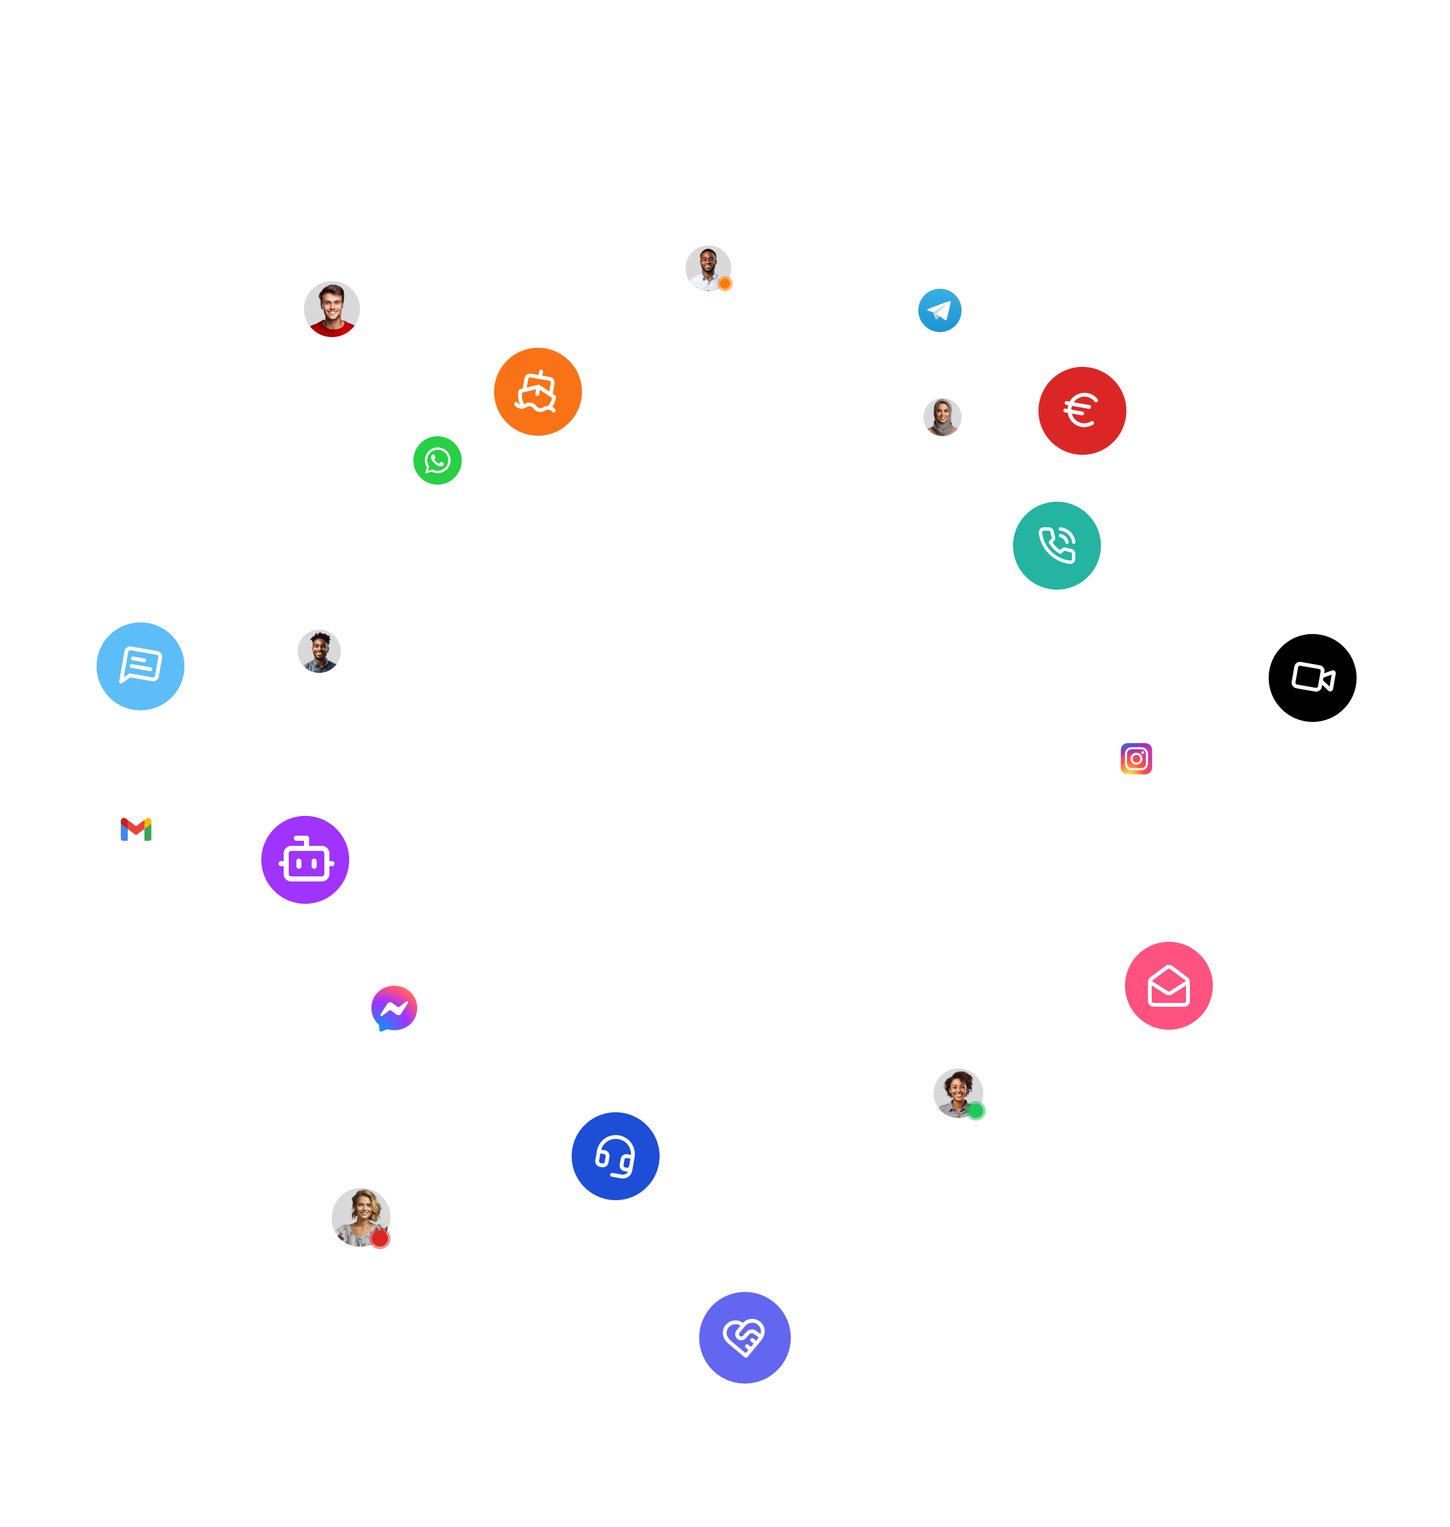
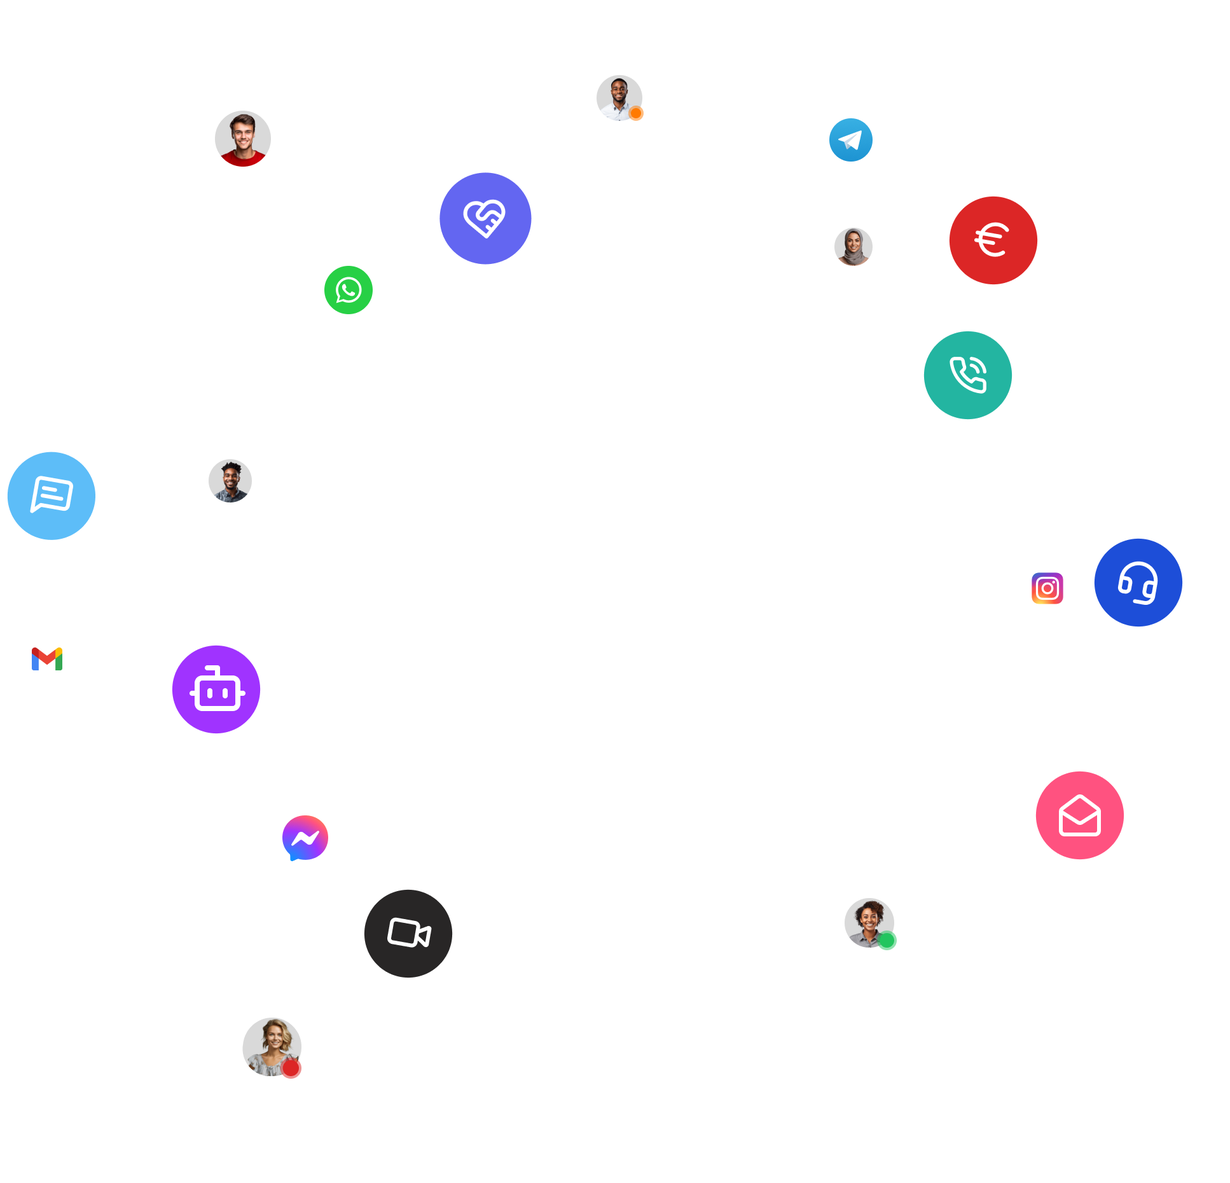
Update CRM

diff --git a/src/components/IconsFeatures.jsx b/src/components/IconsFeatures.jsx
@@ -4,14 +4,13 @@ import Link from 'next/link'
 import { Container } from './Container'
 
 const features = [
-
-    { name: 'Cruise Manager', description: 'Our comprehensive suite of tools includes a robust Real time Cruise Booking Engine, B2C and B2B platforms, Mid-Office and Back-Office solutions. Take advantage of our Web Service API and customizable White Label options to seamlessly integrate and brand our solutions as your own.', href: '/cruise', icon: ShipIcon, style: 'cruise' },
-    { name: 'CRM & Sales ', description: 'Optimize your travel agency\'s sales management with our integrated CRM solution. Benefit from robust customer management, effective lead generation, a live booking manager, and sales tracking features. Streamline your process with tools tailored for the travel industry.    ', href: '/crm', icon: UsersIcon, style: 'crm' },
-    { name: 'Socials media', description: 'Automate your customers\' communication with artificial intelligence-driven bots and a Live Chat system optimized  with smarter conversations on any channel. WhatsApp, Messenger, Instagram, Email, Telegram, ...  Centralize your communication channels by managing every interaction from a single platform.', href: '/socials', icon: Share2Icon, style: 'socials' },
+    // { name: 'Cruise Manager', description: 'Our comprehensive suite of tools includes a robust Real time Cruise Booking Engine, B2C and B2B platforms, Mid-Office and Back-Office solutions. Take advantage of our Web Service API and customizable White Label options to seamlessly integrate and brand our solutions as your own.', href: '/cruise', icon: ShipIcon, style: 'cruise' },
     { name: 'Unified', description: 'Our comprehensive solution integrates unified communication and collaboration tools, including IP telephony, advanced instant messaging with group management, video conferencing, task management, and a shared email inbox.  Designed to streamline your team\'s workflow and enhance productivity.', href: '/unified', icon: MessageSquareTextIcon, style: 'unified' },
+    { name: 'Sales & HelpDesk ', description: 'Optimize your travel agency\'s sales management with our integrated CRM solution. Benefit from robust customer management, effective lead generation, a live booking manager, and sales tracking features. Streamline your process with tools tailored for the travel industry.    ', href: '/crm', icon: UsersIcon, style: 'crm' },
+    { name: 'Socials media', description: 'Automate your customers\' communication with artificial intelligence-driven bots and a Live Chat system optimized  with smarter conversations on any channel. WhatsApp, Messenger, Instagram, Email, Telegram, ...  Centralize your communication channels by managing every interaction from a single platform.', href: '/socials', icon: Share2Icon, style: 'socials' },
     { name: 'Emailing', description: 'Maximize your marketing efforts with our powerful solution for mass emailing and marketing automation. Effortlessly create, send, and track email campaigns, and automate your marketing processes to engage customers effectively. Enhance your outreach, nurture leads, and drive conversions with our all-in-one marketing platform.', href: '/marketing', icon: MailOpenIcon, style: 'marketing' },
+    { name: 'VoIP', description: 'Our IP telephony solution offers reliable and high-quality voice communication for businesses. Benefit from advanced call features, seamless integration with existing systems, and cost-effective communication. Enhance your business operations with a telephony solution designed for modern needs.', href: '/unified', icon: PhoneCallIcon, style: 'voip' },
     { name: 'Call Center', description: 'Optimize your call center operations with our comprehensive CRM solution. Streamline customer interactions, improve lead management, and track sales performance with ease. Our CRM is designed to enhance agent productivity, boost customer satisfaction, and drive business growth through effective communication and data management.', href: '/unified', icon: HeadsetIcon, style: 'callcenter' },
-    { name: 'VoIP', description: 'Our IP telephony solution offers reliable and high-quality voice communication for businesses. Benefit from advanced call features, seamless integration with existing systems, and cost-effective communication. Enhance your business operations with a telephony solution designed for modern needs.', href: '/ia', icon: PhoneCallIcon, style: 'voip' },
     { name: 'IA', description: 'Transform your customer support with our AI-powered live chat integration. Leverage generative AI to provide instant, accurate, and personalized responses to customer inquiries. Enhance customer satisfaction, reduce response times, and streamline your support operations with cutting-edge AI technology embedded in your live chat solution.', href: '/ia', icon: BotMessageSquare, style: 'ia' },
 
 
@@ -36,7 +35,7 @@ export default function IconsFeatures() {
             </div>
             <Container>
                 <div className="mx-auto max-w-3xl lg:text-center">
-                    <h2 className="text-base font-semibold leading-7 text-blue-600">Cruise-360°</h2>
+                    <h2 className="text-base font-semibold leading-7 text-blue-600">Comunik Sphere</h2>
                     <p className="mt-2 text-3xl font-bold tracking-tight text-gray-900 sm:text-6xl font-display">
                         All-in One Business Empowerment Solution
                     </p>

diff --git a/src/components/FeatureCardCruise.jsx b/src/components/FeatureCardCruise.jsx
@@ -264,7 +264,7 @@ export default function FeatureCardCruise() {
                                     Advanced Back-Office for cruise industry
                                 </p>
                                 <p className="mt-6 text-lg leading-8 text-gray-600">
-                                    Our BackOffice solution empowers travel agencies to efficiently map cruise line content to their database and enrich it with multimedia. Develop and customize cruise promotions packages to meet your clients' unique needs.
+                                    Our BackOffice solution empowers your company to efficiently map cruise line content to their database and enrich it with multimedia. Develop and customize cruise promotions packages to meet your clients' unique needs.
 
                                 </p>
                                 <dl className="mt-6 text-base leading-7 text-gray-600 lg:max-w-none grid grid-cols-3 gap-3">
@@ -300,7 +300,7 @@ export default function FeatureCardCruise() {
                                 <p className="mt-2  text-gray-900 sm:text-5xl bg-gradient-to-r from-cruise to-purple-900 text-transparent bg-clip-text font-display text-7xl font-bold tracking-tight">
                                     Optimize Your Travel Agency's Online Presence with Our Advanced CMS</p>
                                 <p className="mt-6 text-lg leading-8 text-gray-600">
-                                    Our CMS is designed to help travel agencies specializing in cruises efficiently manage their website content. Enhance your online presence with tools for multimedia content management, ship and itinerary details, promotional offers, and customizable templates.
+                                    Our CMS is designed to help your company specializing in cruises efficiently manage their website content. Enhance your online presence with tools for multimedia content management, ship and itinerary details, promotional offers, and customizable templates.
                                 </p>
                                 <dl className="mt-6 text-base leading-7 text-gray-600 lg:max-w-none grid grid-cols-3 gap-3">
                                     {featuresCMS.map((feature) => (
@@ -337,7 +337,7 @@ export default function FeatureCardCruise() {
                                     Empower Your Travel Agency with Our API
                                 </p>
                                 <p className="mt-6 text-lg leading-8 text-gray-600">
-                                    Our Web Service module, powered by GraphQL, enables travel agencies to access comprehensive cruise departure data with various search criteria.
+                                    Our Web Service module, powered by GraphQL, enables your company to access comprehensive cruise departure data with various search criteria.
                                     {/* Enrich your content with images and text about ships, cabins, destinations, and ports. The Web Service also allows for booking reservations, cabin holds, and options directly with cruise lines. */}
                                 </p>
                                 <dl className="mt-6 text-base leading-7 text-gray-600 lg:max-w-none grid grid-cols-2 gap-3">
@@ -374,7 +374,7 @@ export default function FeatureCardCruise() {
                                     Maximize Your Cruise Sales with Our Versatile Cruise Booking Engine
                                 </p>
                                 <p className="mt-6 text-lg leading-8 text-gray-600">
-                                    Our Cruise Booking Engine caters to B2B, B2C, White Label, and B2B2C models, providing a comprehensive solution for travel agencies.
+                                    Our Cruise Booking Engine caters to B2B, B2C, White Label, and B2B2C models, providing a comprehensive solution for your company.
                                     Enjoy seamless integration, robust booking capabilities, and a user-friendly interface that enhances the customer experience.
                                 </p>
                                 <dl className="mt-6 text-base leading-7 text-gray-600 lg:max-w-none grid grid-cols-2 gap-3">

diff --git a/src/components/FeatureCardCrm.jsx b/src/components/FeatureCardCrm.jsx
@@ -151,7 +151,7 @@ const featuresDeals = [
 ]
 const featuresView = [
     {
-        name: '360° Deal View',
+        name: 'Deal View',
         description:
             'Lorem ipsum, dolor sit amet consectetur adipisicing elit. Maiores impedit perferendis suscipit eaque, iste dolor cupiditate blanditiis ratione.',
         icon: CheckIcon,
@@ -333,7 +333,7 @@ export default function FeatureCardCrm() {
                     </div>
                 </div>
             </div>
-            <div className="overflow-hidden bg-white py-12 sm:py-16">
+            <div className="hidden overflow-hidden bg-white py-12 sm:py-16">
                 <div className="mx-auto max-w-7xl px-6 lg:px-8">
                     <div className="mx-auto grid max-w-2xl grid-cols-1 gap-x-8 gap-y-16 sm:gap-y-20 lg:mx-0 lg:max-w-none lg:grid-cols-2">
                         <div className="lg:pr-4 lg:pt-4">
@@ -372,8 +372,8 @@ export default function FeatureCardCrm() {
                     <div className="mx-auto grid max-w-2xl grid-cols-1 gap-x-8 gap-y-16 sm:gap-y-20 lg:mx-0 lg:max-w-none lg:grid-cols-2">
                         <div className="lg:ml-auto lg:pl-4 lg:pt-4">
                             <div className="">
-                                <h2 className="text-base font-semibold leading-7 text-indigo-600">Vue 360°</h2>
-                                <p className="mt-2 text-3xl font-bold tracking-tight text-gray-900 sm:text-5xl font-display">Comprehensive 360° view of all your process </p>
+                                <h2 className="text-base font-semibold leading-7 text-indigo-600">Sphere view</h2>
+                                <p className="mt-2 text-3xl font-bold tracking-tight text-gray-900 sm:text-5xl font-display">Comprehensive global view of all your process </p>
                                 <p className="mt-6 text-lg leading-8 text-gray-600">
                                     This powerful tool helps sales teams stay organized, track every touchpoint, and gain deeper insights into deal progression.
                                     You can streamline your sales process, enhance customer relationships, and drive more effective deal management through a visually rich and user-friendly platform.
@@ -391,7 +391,7 @@ export default function FeatureCardCrm() {
                                 </dl>
                             </div>
                         </div>
-                        <div className="flex items-start justify-end lg:order-first">
+                        
                             <Image
                                 src={contacts}
                                 alt="Product screenshot"
@@ -399,7 +399,7 @@ export default function FeatureCardCrm() {
                                 width={2432}
                                 height={1442}
                             />
-                        </div>
+                         
                     </div>
                 </div>
             </div>

diff --git a/src/components/IconsFeatures2.jsx b/src/components/IconsFeatures2.jsx
@@ -4,14 +4,13 @@ import Link from 'next/link'
 import { Container } from './Container'
 
 const features = [
-
-    { name: 'Cruise ', description: 'Connect with customers where they are', href: '/cruise', icon: ShipIcon, style: 'cruise' },
-    { name: 'CRM ', description: 'Optimized Sales Management for Travel Agencies, by integrating robust customer management, lead generation, and sales tracking features,', href: '/crm', icon: UsersIcon, style: 'crm' },
-    { name: 'Socials Medias', description: 'Automate your customers\' communication with artificial intelligence-driven bots and a Live Chat system optimized  with smarter conversations on any channel. WhatsApp, Messenger, Instagram, Email, Telegram, ...', href: '/socials', icon: Share2Icon, style: 'socials' },
     { name: 'Unified', description: 'Streamline all cruise inquiries from website, social media, WhatsApp, live chat, phone, email, and in-office visits with our all-in-one IT solution.', href: '/unified', icon: MessageSquareTextIcon, style: 'unified' },
+    // { name: 'Cruise ', description: 'Connect with customers where they are', href: '/cruise', icon: ShipIcon, style: 'cruise' },
+    { name: 'CRM ', description: 'Optimized Sales Management for your company, by integrating robust customer management, lead generation, and sales tracking features,', href: '/crm', icon: UsersIcon, style: 'crm' },
+    { name: 'Socials Medias', description: 'Automate your customers\' communication with artificial intelligence-driven bots and a Live Chat system optimized  with smarter conversations on any channel. WhatsApp, Messenger, Instagram, Email, Telegram, ...', href: '/socials', icon: Share2Icon, style: 'socials' },
     { name: 'Emailing', description: 'Streamline all cruise inquiries from website, social media, WhatsApp, live chat, phone, email, and in-office visits with our all-in-one IT solution.', href: '/marketing', icon: MailOpenIcon, style: 'marketing' },
     { name: 'Call Center', description: 'Streamline all cruise inquiries from website, social media, WhatsApp, live chat, phone, email, and in-office visits with our all-in-one IT solution.', href: '/unified', icon: HeadsetIcon, style: 'callcenter' },
-    { name: 'VoIP', description: 'Streamline all cruise inquiries from website, social media, WhatsApp, live chat, phone, email, and in-office visits with our all-in-one IT solution.t', href: '/ia', icon: PhoneCallIcon, style: 'voip' },
+    { name: 'VoIP', description: 'Streamline all cruise inquiries from website, social media, WhatsApp, live chat, phone, email, and in-office visits with our all-in-one IT solution.t', href: '/unified', icon: PhoneCallIcon, style: 'voip' },
     { name: 'IA', description: 'Streamline all cruise inquiries from website, social media, WhatsApp, live chat, phone, email, and in-office visits with our all-in-one IT solution.t', href: '/ia', icon: BotMessageSquare, style: 'ia' },
 
 

diff --git a/src/components/Header2.jsx b/src/components/Header2.jsx
@@ -29,15 +29,15 @@ const navigation = [
   { name: 'Company', href: '#' },
 ]
 const products = [
-  { name: 'Cruise Manager ', description: 'Discover all the essential tools you need to efficiently manage your travel products.', href: '/cruise', icon: Ship, style: 'cruise' },
-  { name: 'CRM ', description: 'Comprehensive CRM & Sales Process Solution for Travel Agencies', href: '/crm', icon: UsersIcon, style: 'crm' },
-  { name: 'Socials Medias', description: ' Multi-Channel Live Chat Solution for Seamless Customer Interaction', href: '/socials', icon: Share2Icon, style: 'socials' },
   { name: 'Unified', description: 'Unify Your Team with Our All-in-One Communication and Collaboration Solution', href: '/unified', icon: MessageSquareTextIcon, style: 'unified' },
+  { name: 'CRM Sales & HD ', description: 'Comprehensive CRM & Sales Process Solution for your Business', href: '/crm', icon: UsersIcon, style: 'crm' },
+  { name: 'Socials Medias', description: ' Multi-Channel Live Chat Solution for Seamless Customer Interaction', href: '/socials', icon: Share2Icon, style: 'socials' },
   { name: 'Emailing', description: 'Boost Your Marketing with Our Emailing and Marketing Automation Solution', href: '/marketing', icon: MailOpenIcon, style: 'marketing' },
+  // { name: 'Cruise Manager ', description: 'Discover all the essential tools you need to efficiently manage your travel products.', href: '/cruise', icon: Ship, style: 'cruise' },
+  { name: 'VoIP', description: 'Revolutionize Your Communication with Our IP Telephony Solution', href: '/unified', icon: PhoneCallIcon, style: 'voip' },
   { name: 'Call Center', description: 'Enhance Your Call Center Operations with Our CRM Solution', href: '/unified', icon: HeadsetIcon, style: 'callcenter' },
-  { name: 'VoIP', description: 'Revolutionize Your Communication with Our IP Telephony Solution', href: '/ia', icon: PhoneCallIcon, style: 'voip' },
   { name: 'IA', description: 'Build Customer Support with AI-Powered Live Chat Integration', href: '/ia', icon: BotMessageSquare, style: 'ia' },
-  //  { name: 'Dashboard', description: 'Speak directly to your customers', href: '/dashboard', icon: Share2Icon, style: 'socials' },
+  { name: 'Dashboard', description: 'Speak directly to your customers', href: '/dashboard', icon: Share2Icon, style: 'socials' },
 
 
 ]
@@ -87,7 +87,7 @@ export function Header2() {
             <Popover.Group className="hidden lg:flex lg:gap-x-12">
               <Popover className="relative">
                 <Popover.Button className="flex items-center gap-x-1 text-sm font-semibold font-display leading-6 text-white outline-none   opacity-70 hover:opacity-100">
-                  Products
+                  Solutions
                   <ChevronDownIcon className="h-5 w-5 flex-none text-gray-400" aria-hidden="true" />
                 </Popover.Button>
 

diff --git a/src/components/Hero2.jsx b/src/components/Hero2.jsx
@@ -60,10 +60,10 @@ export function Hero2() {
 
 
         <div className="relative isolate overflow-hidden">
-            <div className="relative  max-w-5xl mx-auto">
+            <div className="relative  max-w-7xl mx-auto">
                 <Image
                     src={sphere} alt=""
-                    className="mx-auto h-[1200px]  w-auto object-cover"
+                    className="mx-auto h-[930px]  w-auto object-cover"
                 />
             </div>
             <div
@@ -92,7 +92,7 @@ export function Hero2() {
 
             </div>
 
-            <div
+            {/* <div
                 className="absolute inset-x-0  -z-10 top-0"
                 aria-hidden="true"
             >
@@ -101,7 +101,7 @@ export function Hero2() {
                     className="mx-auto w-full object-cover opacity-10"
                 />
 
-            </div>
+            </div> */}
 
 
             {/* <div className=" flex justify-center items-center">
@@ -126,10 +126,10 @@ export function Hero2() {
                     <div className="text-center">
 
                         <h1 className="text-4xl font-bold font-display  sm:text-6xl bg-gradient-to-r from-white  to-blue-300 inline-block text-transparent bg-clip-text">
-                            Sail to Success with Cruise-360°
+                            Put your slogon with your business 
                         </h1>
                         <p className="mt-6 text-lg leading-8 text-gray-300 ">
-                            Empowering cruise agencies to streamline operations, enhance productivity, and drive growth with integrated tools for customer engagement and data analytics.
+                            Empowering yout company to streamline operations, enhance productivity, and drive growth with integrated tools for customer engagement and data analytics.
                         </p>
                         <div className="mt-10 flex flex-col items-center justify-center gap-y-6">
                             {/* <a
@@ -138,7 +138,7 @@ export function Hero2() {
                 >
                   Get started
                 </a> */}
-                            <a href="#global" className="text-sm font-semibold leading-6 text-white flex items-center gap-x-2 justify-center bg-black/20 hover:bg-black/30 px-6 py-3 rounded-xl ">
+                            <a href="#global" className="text-sm font-semibold leading-6 text-white flex items-center gap-x-2 justify-center bg-gradient-to-r from-blue-400 to-violet-600 hover:bg-black/30 px-6 py-3 rounded-xl ">
                                 <span> Learn more </span>  <ArrowDownIcon className='w-4 h-4' />
                             </a>
                         </div>

diff --git a/src/app/layout.jsx b/src/app/layout.jsx
@@ -5,11 +5,11 @@ import '@/styles/tailwind.css'
 
 export const metadata = {
   title: {
-    template: '%s - Cruise-360°',
-    default: 'Sail to Success with Cruise-360°',
+    template: '%s - Comunik Sphere',
+    default: 'Comunik Sphere',
   },
   description:
-    'Empowering cruise agencies to streamline operations, enhance productivity, and drive growth with integrated tools for customer engagement and data analytics.',
+    'Empowering your business to streamline operations, enhance productivity, and drive growth with integrated tools for customer engagement and data analytics.',
 }
 
 const inter = Inter({

diff --git a/src/components/HeroCrm.jsx b/src/components/HeroCrm.jsx
@@ -30,7 +30,7 @@ export function HeroCrm() {
           CRM
         </div>
         <h1 className="bg-gradient-to-r from-white to-blue-400 text-transparent bg-clip-text font-display text-7xl font-bold max-w-6xl mx-auto tracking-tight drop-shadow-xl">
-          Optimized CRM Tools <br></br> for Travel Agencies
+          Optimized CRM Tools <br></br> for your company
         </h1>
         <p className="mx-auto mt-6 max-w-3xl text-lg tracking-tight text-white/70">
           By integrating robust customer management, lead generation, and sales tracking features,

diff --git a/src/app/page.jsx b/src/app/page.jsx
@@ -19,7 +19,7 @@ import { CallToAction2 } from '@/components/CallToAction2'
 export default function Home() {
   return (
     <>
-      <div className="bg-blue-950">
+      <div className="bg-gradient-to-r from-blue-900 to-violet-900">
         <Header2 />
         <Hero2 />
       </div>
